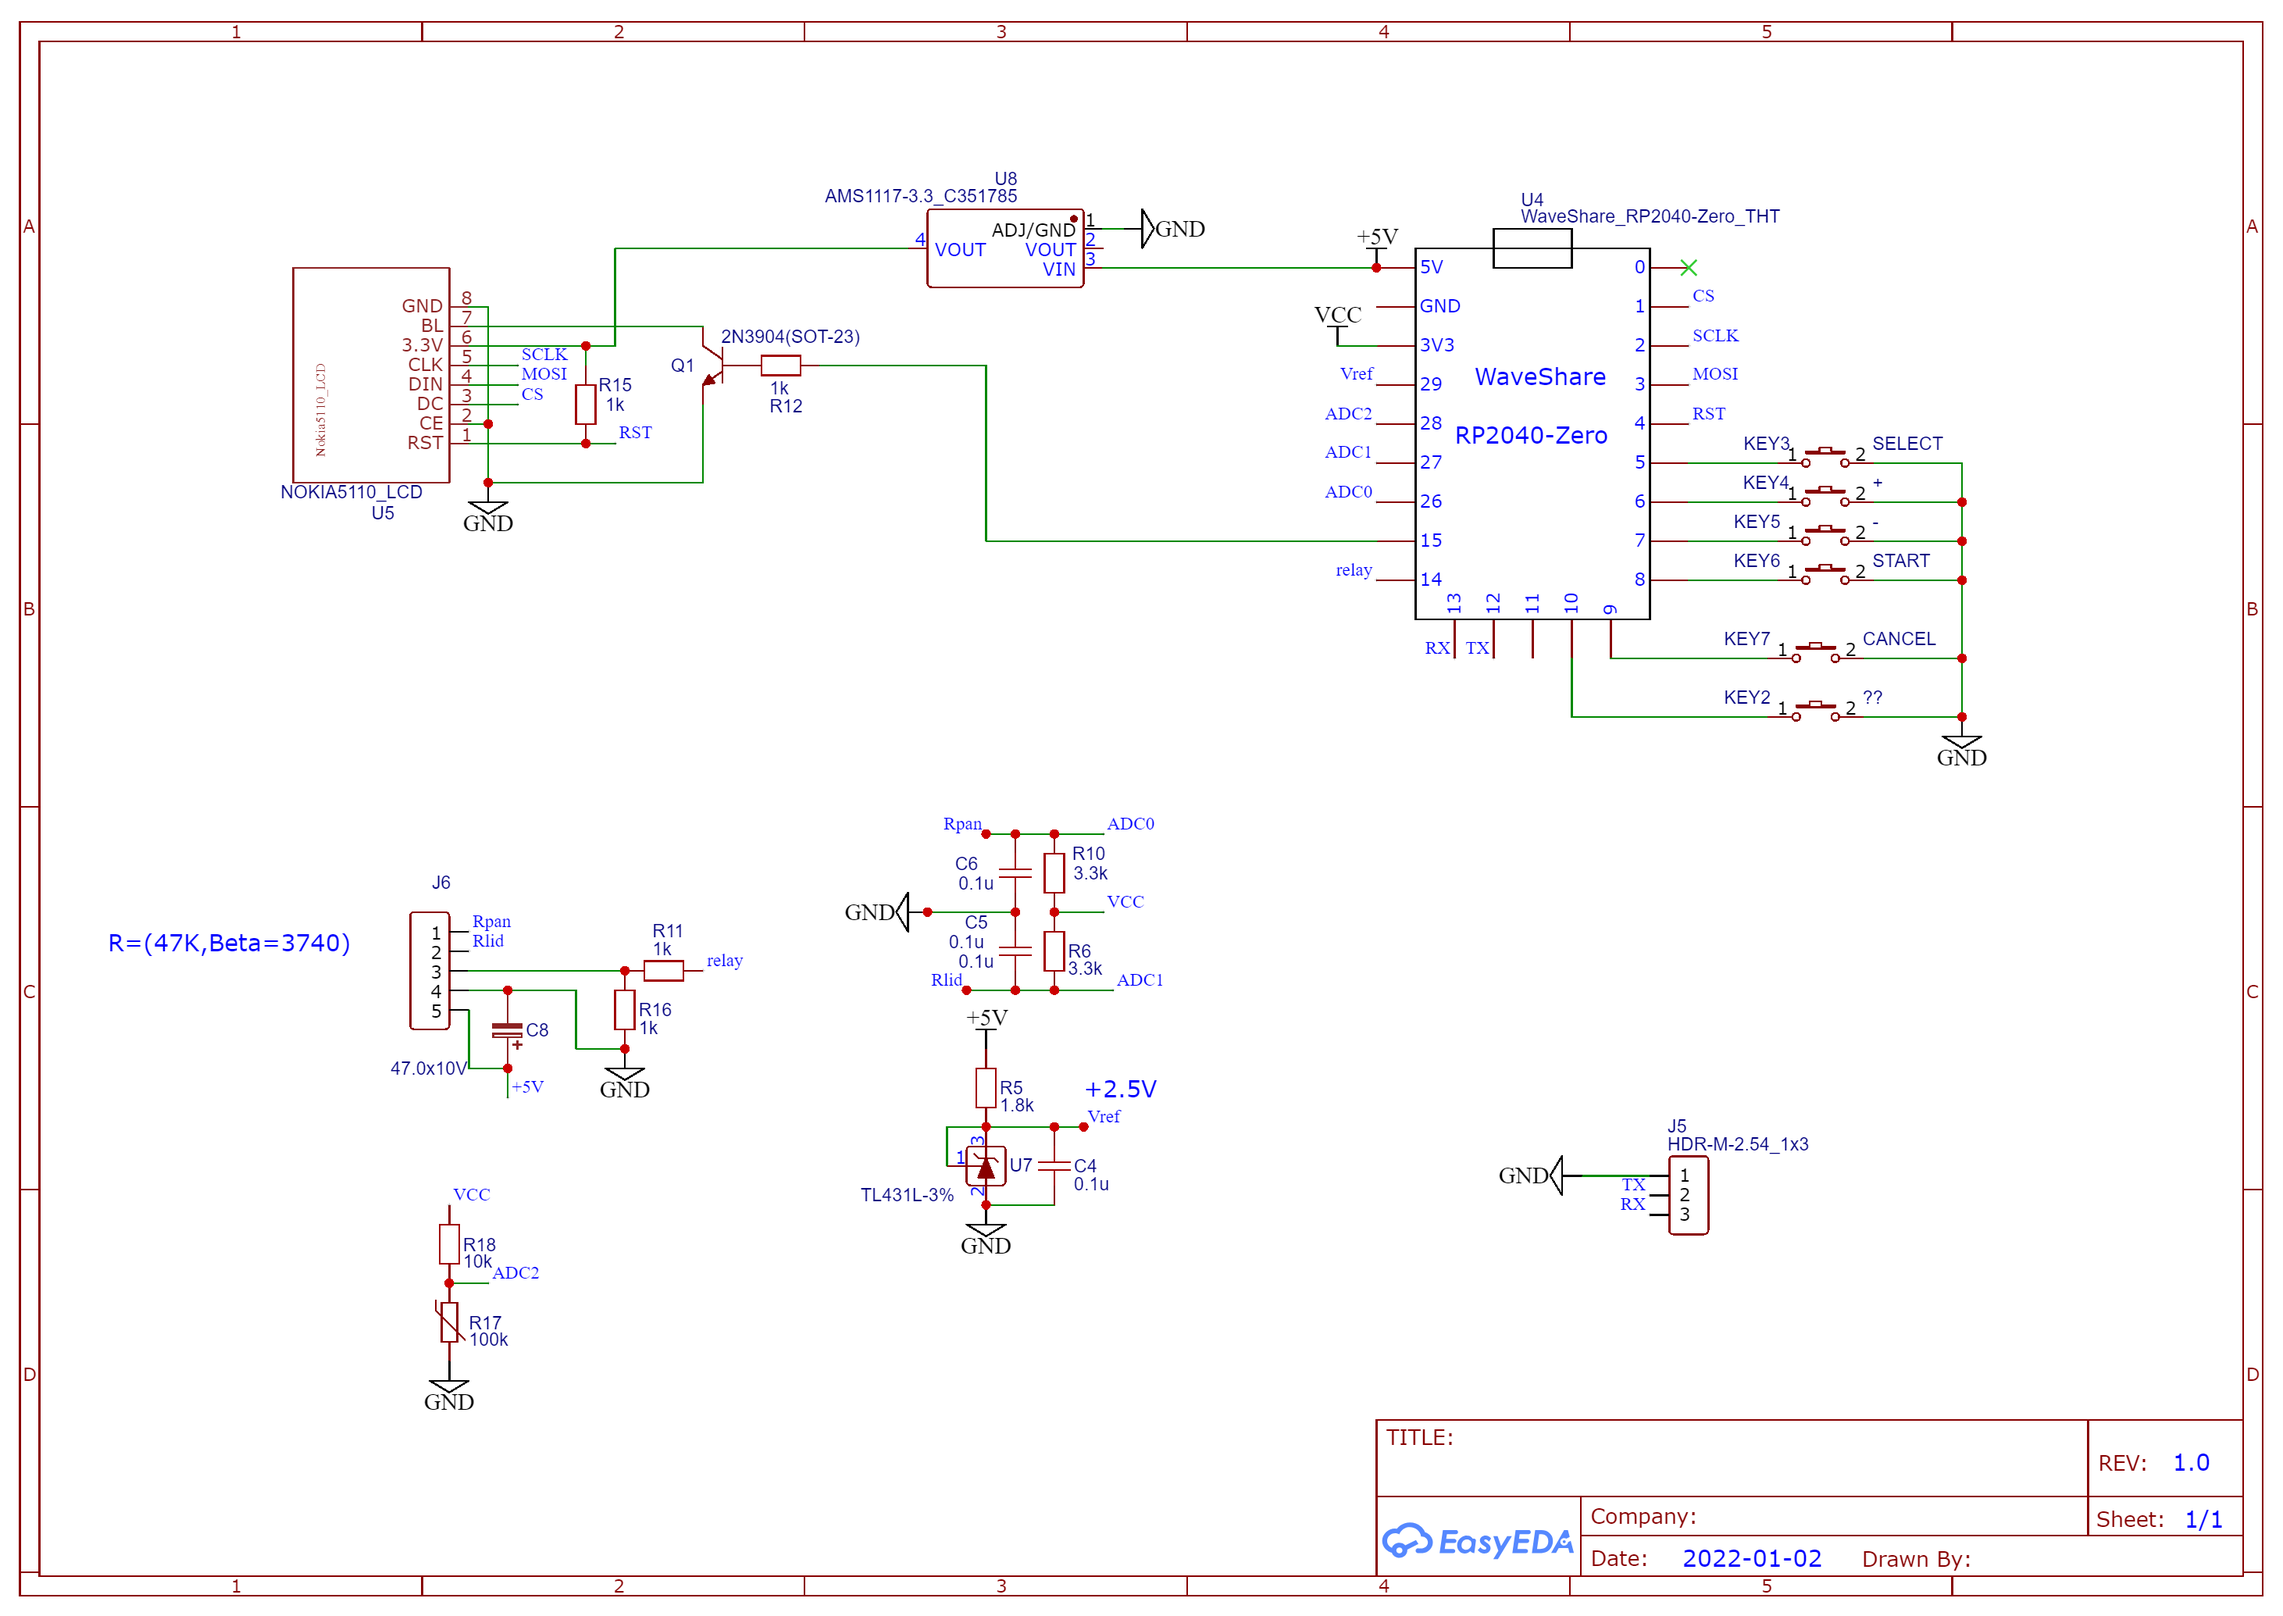
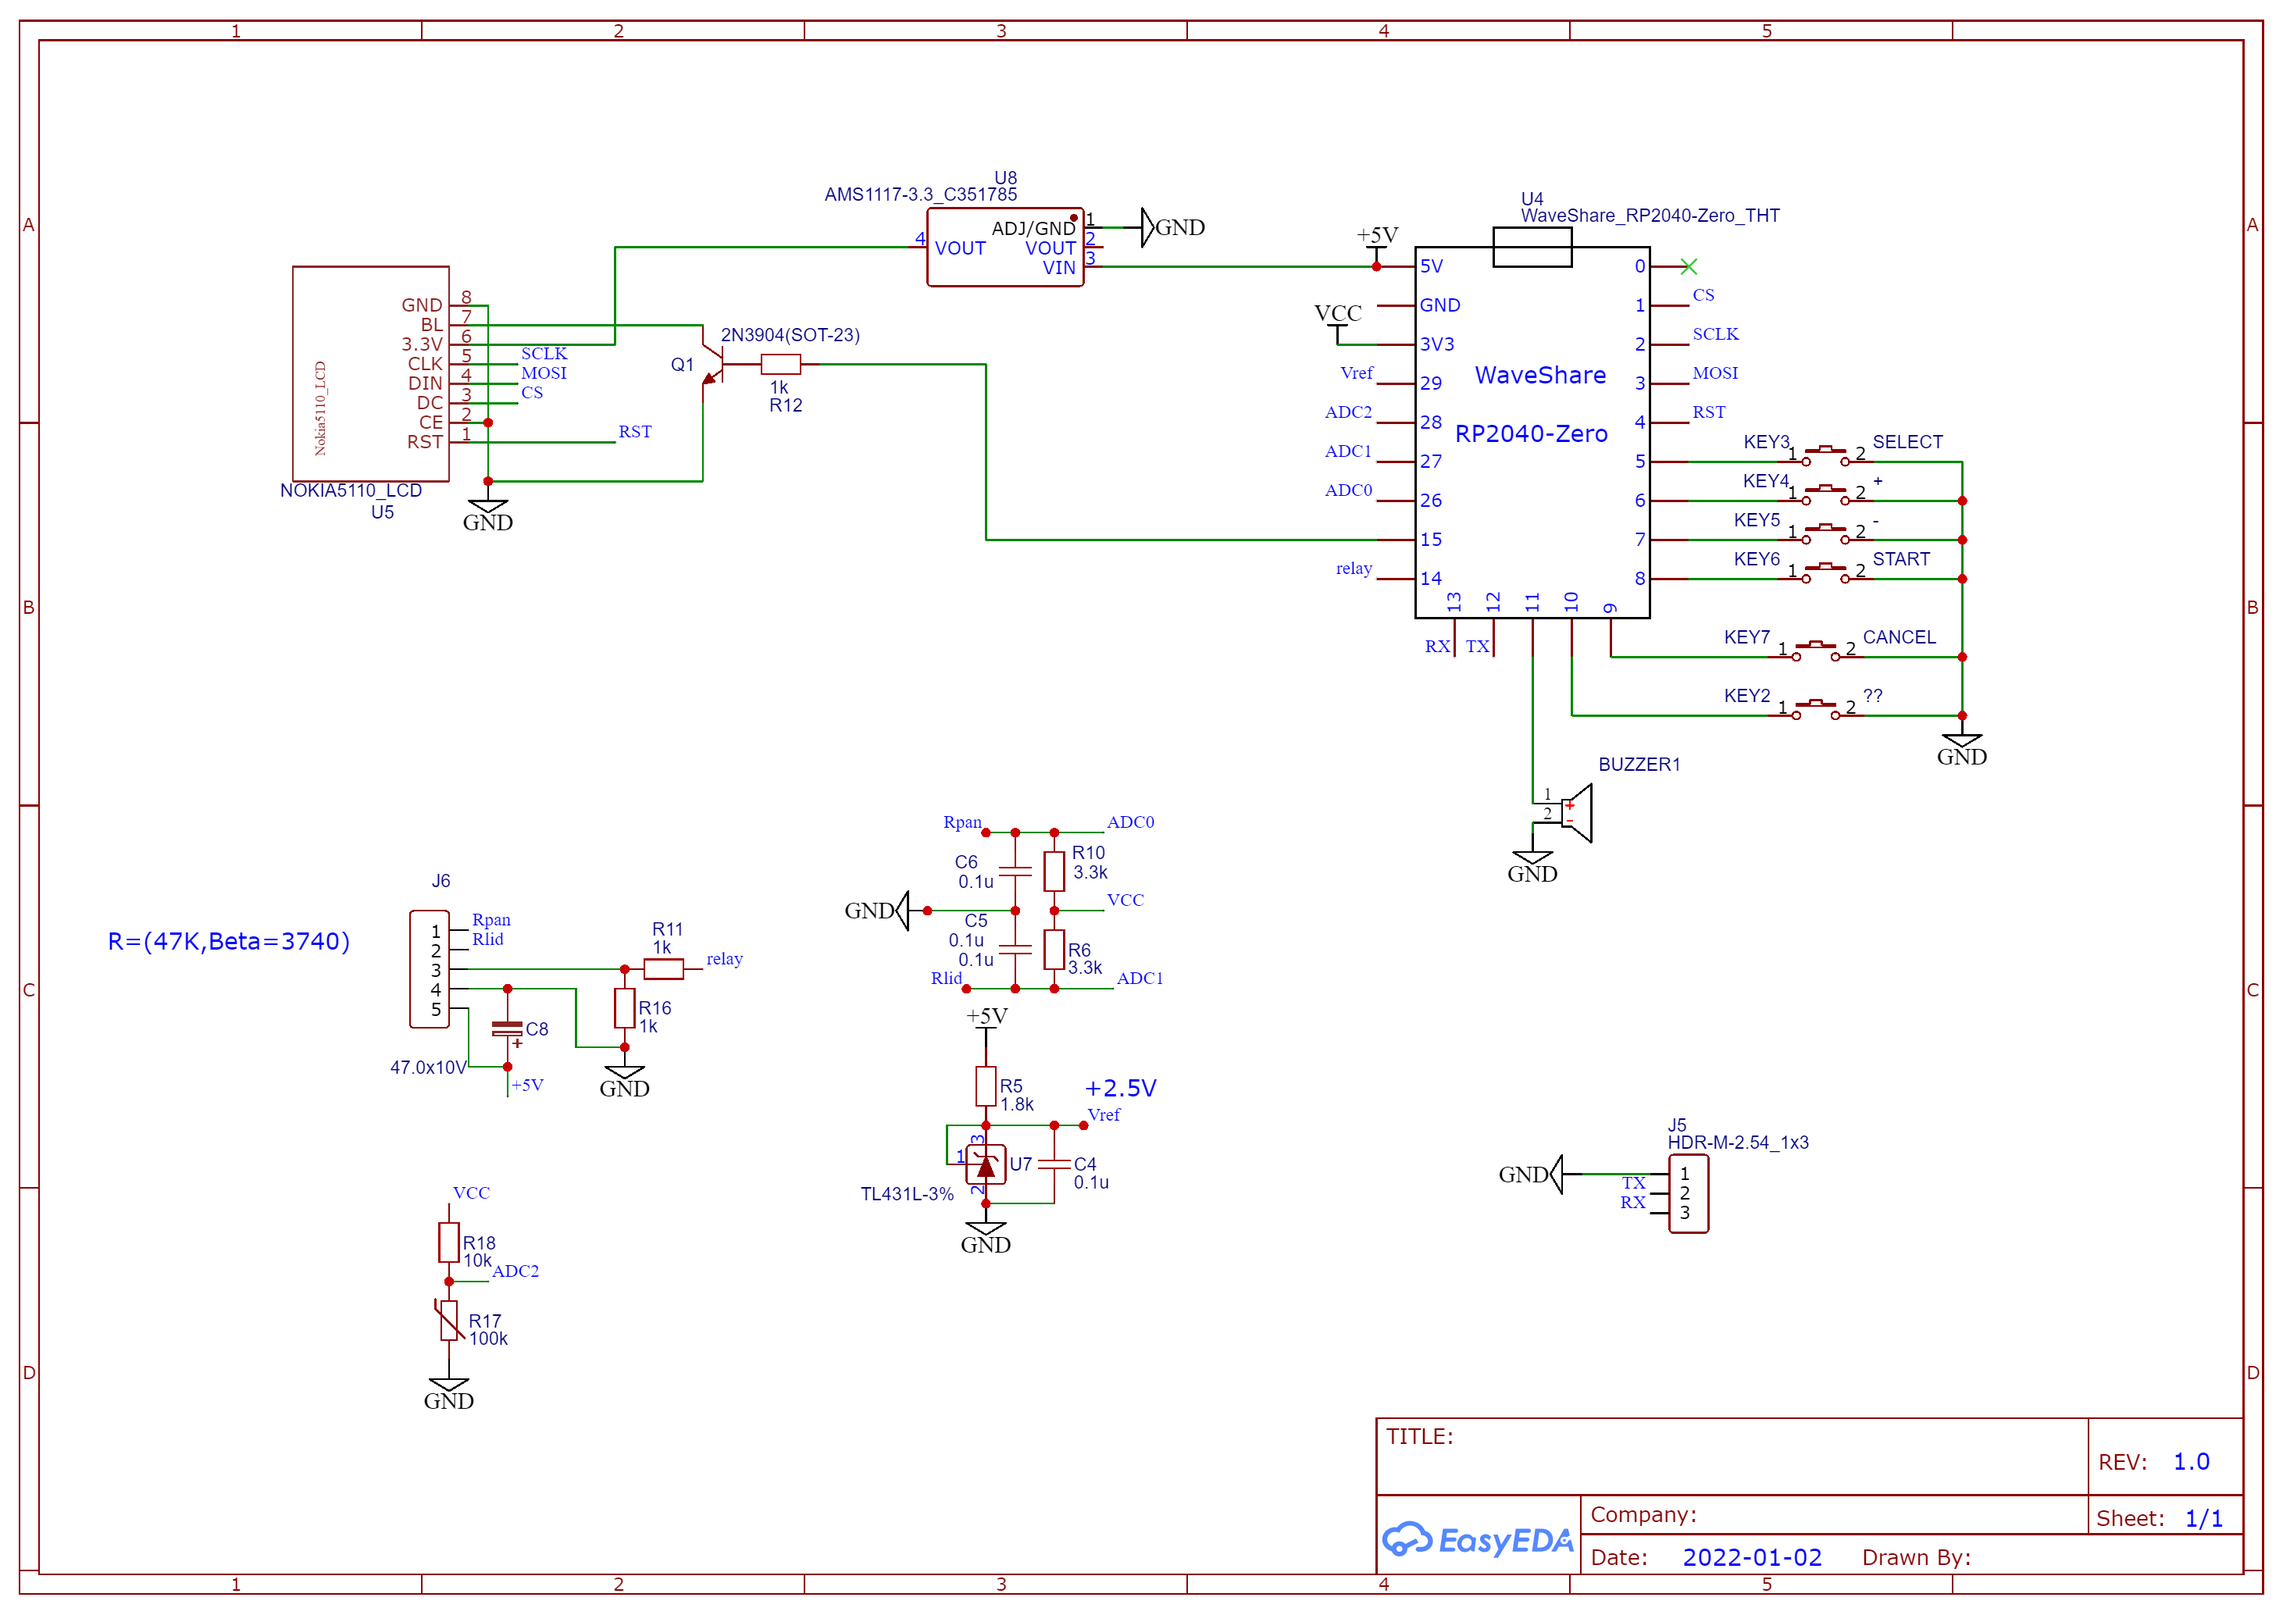
upd

diff --git a/RiceCooker-rp2/lib/rc_fsm.py b/RiceCooker-rp2/lib/rc_fsm.py
@@ -1,8 +1,10 @@
 from time import time
+from relay import relay
+from buzzer import buzzer
 
-class rc_fsm():
+class rc_fsm(relay, buzzer):
     """ rice cooker finity state machine """
-    def __init__(self, fsm=None):
+    def __init__(self, fsm=None, pin_r=None, pin_b=None):
         self.state=""
         self.mode=""
         self.LCD=""
@@ -11,10 +13,12 @@ class rc_fsm():
         self.time=0 # T
         self.stime=0 # start time
         self.rtime=0 # run time
-        self.beep=0
+#         self.beep=0
         self.relay="0/0" # 2/16
         self.set_fsm(fsm)
-    
+        self.r=relay(pin_r)
+        self.b=buzzer(pin_b)
+
     def set_fsm(self, fsm):
         """ set current state """
         self.fsm=fsm
@@ -29,7 +33,7 @@ class rc_fsm():
         self.rtime=time()-self.stime
         t=time()-self.time
         for k in self.fsm[self.state].keys():
-            if type(self.fsm[self.state][k] is list):
+            if type(self.fsm[self.state][k]) is list:
                 lst=self.fsm[self.state][k]
                 if k=='T_gt':
                     for st in lst:
@@ -56,19 +60,24 @@ class rc_fsm():
         """ """
         self.state=""
         self.LCD=""
+        self.relay="0/0"
+        self.r.add_state(self.relay)
         if self.fsm is not None:
             if next.find('/')>0:
                 self.relay=next
+                self.r.add_state(self.relay)
+                self.r.run()
             elif next in self.fsm.keys():
                 print("{}=>{}".format(next,self.fsm[next]))
                 self.state=next
                 if next=='start': self.stime=time()
                 self.LCD=self.fsm[next]['LCD']
                 self.time=self.fsm[next].get('T', self.time)
-                self.beep=self.fsm[next].get('beep', 0)
-                print("{}: {} {} {}".format(self.state, self.LCD, self.time, self.beep))
+                self.b.buzz(self.fsm[next].get('beep', ""))
+                print("{}: {} {} {}".format(self.state, self.LCD, self.time, self.fsm[next].get('beep', ":")))
             else: #end
-                self.relay="0/0"
+#                 self.relay="0/0"
+#                 self.r.add_state(self.relay)
                 self.stime=0
 
     def menu(self, k): # pressed keys list

diff --git a/RiceCooker-rp2/lib/relay.py b/RiceCooker-rp2/lib/relay.py
@@ -5,27 +5,55 @@ from machine import Pin, Timer
 class relay():
     """ """
     def __init__(self, pin=None):
-        self.pin=pin
+        self.pin=Pin(pin_num, Pin.OUT) if type(pin) is int else pin
+#         self.pin=pin
         self.pin.value(0)
         self.on=0
-        self.off=0
+        self.all=0
         self.timer_on=Timer(-1)
         self.timer_all=Timer(-1)
-        pass
+        self.is_run=False
     
     def add_state(self, s):
+        self.stop()
+        self.on=0
+        self.all=0
         n=s.split('/')
-        try:
-            self.on=int(n[0])
-            self.all=int(n[1])
-            if(self.on > self.off):
-                raise
-        except:
-            pass
-        
+        if(len(n)==2):
+            if(int(n[0]) > int(n[1])):
+                self.on=int(n[0])
+                self.all=int(n[1])
+        else:
+            print("error: {}".format(s))
+            
+    def run_on(self):
+        if  self.cur_state(): # if on
+            self.pin.value(0)
+            self.timer_on(-1)
+        else:
+            self.timer_on(mode=Timer.ONE_SHOT, period=self.on*1000, callback=self.run_on)
+            self.pin.value(1)
+               
     def run(self):
+        self.is_run=True
+        self.timer_all(period=self.all*1000, callback=self.run_on)
+        self.run_on()
         pass
+    
+    def stop(self):
+        self.timer_on=Timer(-1)
+        self.timer_all=Timer(-1)
+        self.pin.value(0)
+        self.is_run=False
         
     def cur_state(self):
         return True if self.pin.value()==1 else False
 
+#     def step(self):
+#         if self.on==0:
+#             self.pin.value(0)
+#         if self.on>0 and self.all>self.on:
+#             if 
+#         pass
+    
+    

diff --git a/RiceCooker-rp2/lib/buzzer.py b/RiceCooker-rp2/lib/buzzer.py
@@ -1,0 +1,31 @@
+from machine import Pin, Timer
+
+class buzzer():
+    """
+    buzz("500:3) - 3*(500+500)ms
+    """
+    def __init__(self, pin=None):
+        self.pin=Pin(pin_num, Pin.OUT) if type(pin) is int else pin
+        self.len=0 # beep/pause delay
+        self.cnt=0 # beep counter
+        self.timer=Timer(-1)
+        
+    def buzz(self, s):
+        n=s.split(':')
+        if(len(n)==2):
+            self.len=int(n[0])
+            self.cnt=int(n[1])
+            self.beep()
+        
+    def beep(self):
+        self.pin.value(1)
+        self.timer(mode=Timer.ONE_SHOT, period=self.len, callback=pause)
+
+    def pause(self):
+        self.pin.value(0)
+        self.cnt-=1
+        if self.cnt<=0:
+            self.timer(-1)
+        else:
+            self.timer(mode=Timer.ONE_SHOT, period=self.len, callback=beep)
+

diff --git a/RiceCooker-rp2/lib/btn_pio.py b/RiceCooker-rp2/lib/btn_pio.py
@@ -1,17 +1,17 @@
 from DebouncerPIO import DebouncerLowPIO
 
-
 class btn_pio(DebouncerLowPIO):
-    """ """
+    """ array buttons """
     def __init__(self, sm=0, btn_list=None, handler=None): #pin: "name",...
         self.handler=handler if handler is not None else self.press
         self.keys=[]
         self.btn={}
+        self.sm=sm
         for n in btn_list.keys():
-            if sm>7: raise("too many StateMachines")
-            self.btn[sm]=btn_list[n]
-            DebouncerLowPIO(sm, n, self.handler)
-            sm+=1
+            if self.sm>7: raise("too many StateMachines")
+            self.btn[self.sm]=btn_list[n]
+            DebouncerLowPIO(self.sm, n, self.handler)
+            self.sm+=1
     
     def press(self, sm): #StateMachine(N)
         n=int(str(sm)[13])

diff --git a/RiceCooker-rp2/lib/config.py b/RiceCooker-rp2/lib/config.py
@@ -19,8 +19,6 @@ pan=   NTC(adc=ADC(Pin(26)), R=R1, Ro=47000, beta=3740, adc_t=adc, Vt=VT)
 lid=   NTC(adc=ADC(Pin(27)), R=R1, Ro=47000, beta=3740, adc_t=adc, Vt=VT)
 heater=NTC(adc=ADC(Pin(28)), R=R2, Ro=90500, beta=3950, adc_t=adc, Vt=VT)
 
-r=relay(Pin(14, Pin.OUT))
-
 pcd = PCD8544(spi_id=0, dc=1, din=3, clk=2, dout=0, rst=4, pwm=15)
 # print(pcd._spi)
 pcd.begin()
@@ -31,7 +29,8 @@ lcd.info("Rice  cooker", "ver. 1.0", "fedor2018","","01234567890123")
 led=led_zero(0)
 b=btn_pio(1, {5:'select', 6:'up', 7:'down', 8:'cancel', 9:'none', 10:'start'})
 
-rc=rc_fsm(fsm)
+rc=rc_fsm(fsm, 14, 11)
+rc.b.buzz("200:2")
 
 def get_temp():
     return (pan.r_UP(), lid.r_UP(), heater.r_UP(), pan._vref)

diff --git a/RiceCooker-rp2/fsm_white.py b/RiceCooker-rp2/fsm_white.py
@@ -2,7 +2,7 @@
 mode - вывод имени режима
 'start' - имя 1 состояния
 LCD - вывод состояния
-beep - сигнал N раз
+beep - t:N  (t ms) * (N раз )
 T - уст. нач. времени
 T_gt - если T > T_gt =>выполнить
 pan_gt,pan_le - температура чаши
@@ -70,7 +70,7 @@ fsm={
         },
     "warm": {
         'LCD': 'WARM',
-        'beep': 8,
+        'beep': "500:8",
         'T': 0,
         'T_gt': [[43200, 'end']], #12hour
         'pan_le': [[71.5, '1/16']],

diff --git a/RiceCooker-rp2/lib/rc_lcd.py b/RiceCooker-rp2/lib/rc_lcd.py
@@ -67,3 +67,8 @@ class rc_lcd():
         self.print_str(self.conv_time(t[0]), 0, 1)
         self.print_str(self.conv_time(t[1]), 8, 1)
                         
+    def relay(self, s):
+        str="*" if s else " "
+        self.print_str(str,0,4,"{:1s}")
+        
+        

diff --git a/RiceCooker-rp2/main.py b/RiceCooker-rp2/main.py
@@ -30,6 +30,7 @@ while 1:
 #         c.b.keys.clear()
 #     c.get_btn()
     c.lcd.fsm(c.rc)
+    c.lcd.relay(c.rc.r.cur_state())
     time.sleep_ms(500)
 # except:
 #     print("stop")
